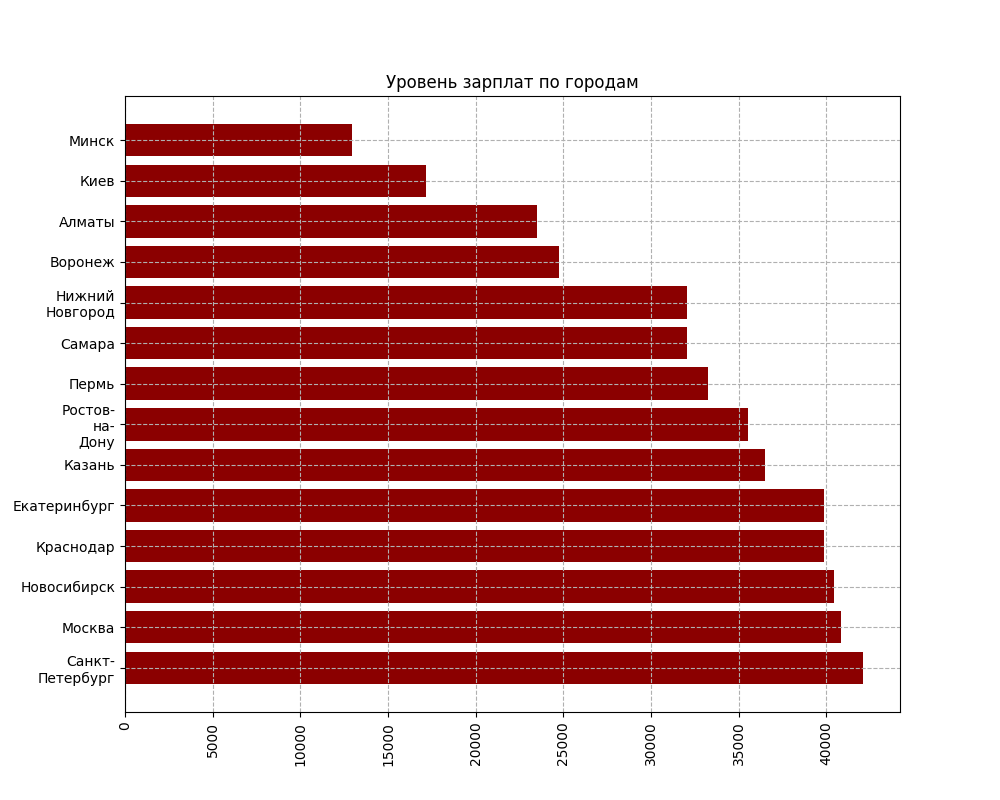
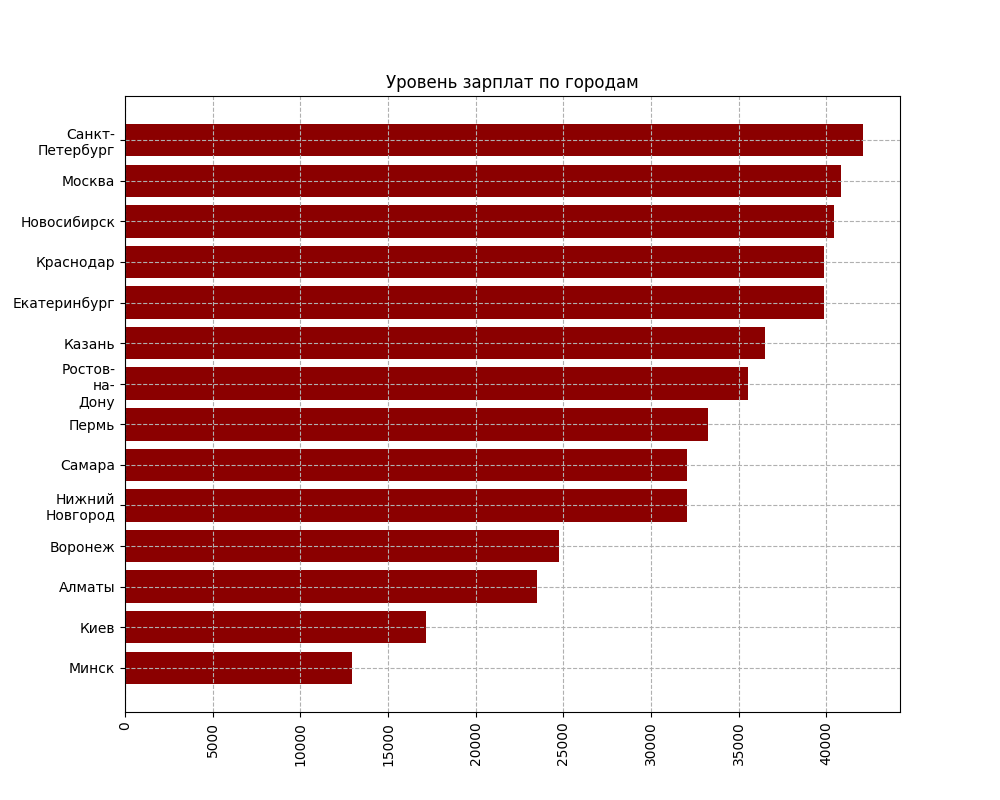
Выполнены все страницы с графиками и таблицами

diff --git a/djangoapp/main/templates/main/demand.html b/djangoapp/main/templates/main/demand.html
@@ -2,4 +2,13 @@
 {% block title %} Востребованность {% endblock %}
 {% load static %}
 {% block content %}
+<section class="flex-statistics">
+    <img class="graph-image" src="{% static 'graphics_and_tables/salary_by_years_graph_prof.png' %}" alt="График динамики уровня зарплат по годам для выбранной профессии">
+    <img class="table-image" src="{% static 'graphics_and_tables/salary_by_years_table_prof.png' %}" alt="Таблица динамики уровня зарплат по годам для выбранной профессии">
+</section>
+
+<section class="flex-statistics">
+    <img class="graph-image" src="{% static 'graphics_and_tables/count_by_years_graph_prof.png' %}" alt="График динамики количества вакансий по годам для выбранной профессии">
+    <img class="table-image" src="{% static 'graphics_and_tables/count_by_years_table_prof.png' %}" alt="Таблица динамики количества вакансий по годам для выбранной профессии">
+</section>
 {% endblock %}

diff --git a/djangoapp/main/templates/main/geography.html b/djangoapp/main/templates/main/geography.html
@@ -2,4 +2,13 @@
 {% block title %} География {% endblock %}
 {% load static %}
 {% block content %}
+<section class="flex-statistics">
+    <img class="graph-image" src="{% static 'graphics_and_tables/salary_by_cities_graph_prof.png' %}" alt="График уровня зарплат по городам для выбранной профессии">
+    <img class="table-image" src="{% static 'graphics_and_tables/salary_by_cities_table_prof.png' %}" alt="Таблица уровня зарплат по городам для выбранной профессии">
+</section>
+
+<section class="flex-statistics">
+    <img class="graph-image" src="{% static 'graphics_and_tables/share_by_cities_graph_prof.png' %}" alt="График долей вакансий по городам для выбранной профессии">
+    <img class="table-image" src="{% static 'graphics_and_tables/share_by_cities_table_prof.png' %}" alt="Таблица долей вакансий по городам для выбранной профессии">
+</section>
 {% endblock %}

diff --git a/djangoapp/main/templates/main/skills.html b/djangoapp/main/templates/main/skills.html
@@ -2,4 +2,8 @@
 {% block title %} Навыки {% endblock %}
 {% load static %}
 {% block content %}
+<section class="flex-statistics">
+    <img class="graph-image" src="{% static 'graphics_and_tables/top_skills_graph_prof.png' %}" alt="График ТОП-20 навыков по годам для выбранной профессии">
+    <img class="table-image" src="{% static 'graphics_and_tables/top_skills_table_prof.png' %}" alt="Таблица ТОП-20 навыков по годам для выбранной профессии">
+</section>
 {% endblock %}

diff --git a/djangoapp/main/management/commands/get_graphics.py b/djangoapp/main/management/commands/get_graphics.py
@@ -1,9 +1,9 @@
-import numpy as np
-from django.core.management.base import BaseCommand
-import pandas as pd
-from main.models import Vacancy
-from matplotlib import pyplot as plt
 from collections import Counter
+import matplotlib.pyplot as plt
+import numpy as np
+import pandas as pd
+from django.core.management.base import BaseCommand
+from main.models import Vacancy
 
 
 class Command(BaseCommand):
@@ -55,23 +55,17 @@ class Command(BaseCommand):
                 all_skills = [skill for skills in skills_lists for skill in skills]
                 if all_skills:
                     skills_count = Counter(all_skills)
-                    most_common_skill = skills_count.most_common(2)
+                    most_common_skills = skills_count.most_common(2)
+                    skills_text = '\n'.join([skill[0] for skill in most_common_skills])
+                    skills_count_text = [skill[1] for skill in most_common_skills]
                     most_popular_skills[year] = {
-                        'skill': [most_common_skill[i][0] for i in range(2)],
-                        'count': [most_common_skill[i][1] for i in range(2)]
+                        'skill': skills_text,
+                        'count': skills_count_text
                     }
             return most_popular_skills
 
-        synonyms = [
-            'system admin', 'сисадмин',
-            'сис админ', 'системный админ',
-            'cистемный админ', 'администратор систем',
-            'системний адміністратор'
-        ]
-
-        def find_vacancies_by_synonyms(vacancies, tags):
-            mask = vacancies['name']
-
+        def find_vacancies_by_synonyms(vacancies, synonyms):
+            return vacancies[vacancies['name'].str.lower().str.contains('|'.join(synonyms), na=False)]
 
         def get_vacancies(param=None):
             vacancies = pd.DataFrame.from_records(Vacancy.objects.values().all())
@@ -115,6 +109,7 @@ class Command(BaseCommand):
         def get_barh_and_table(x, y, y_table, title, histogram_color, table_color, histogram_name, table_name, x_name,
                                     y_name):
             plt.figure(figsize=(10, 8))
+            plt.gca().invert_yaxis()
             plt.barh(y, x, color=histogram_color)
             plt.xticks(np.arange(0.0, max(x) + 1, 5000.0))
             plt.tick_params(axis='x', rotation=90)
@@ -155,7 +150,7 @@ class Command(BaseCommand):
                              loc='center',
                              cellLoc='center')
             table.auto_set_font_size(False)
-            table.set_fontsize(8)
+            table.set_fontsize(6)
 
             for k, cell in table.get_celld().items():
                 if k[0] == 0:
@@ -224,7 +219,6 @@ class Command(BaseCommand):
         )
 
         # Пятый график
-
         skills_by_years = get_top_skills(all_vacancies)
         years = list(skills_by_years.keys())
         counts = []
@@ -241,10 +235,94 @@ class Command(BaseCommand):
             'Год', 'Навыки'
         )
 
+
+        synonyms = [
+            'system admin', 'сисадмин',
+            'сис админ', 'системный админ',
+            'cистемный админ', 'администратор систем',
+            'системний адміністратор'
+        ]
+
+        vacancies = find_vacancies_by_synonyms(all_vacancies, synonyms)
+        vacancies_for_salary = find_vacancies_by_synonyms(salary_vacancies, synonyms)
+
         ### Востребованность ###
+
+        # Первый график
+        salary_by_years_prof = get_statistics_by_years(vacancies_for_salary, 'salary')
+        salary_years_prof = list(salary_by_years_prof.keys())
+        salaries_by_year_prof = list(salary_by_years_prof.values())
+        get_graph_and_table(
+            salary_years_prof, salaries_by_year_prof,
+            'Динамика уровня зарплат по годам для профессии "Системный аналитик"',
+            'gold', '#FFCF48',
+            'salary_by_years_graph_prof.png',
+            'salary_by_years_table_prof.png',
+            'Год', 'Средняя з/п',
+            5000.0
+        )
+
+        # Второй график
+        count_by_years_prof = get_statistics_by_years(vacancies, 'count')
+        count_years_prof = list(count_by_years_prof.keys())
+        counts_by_years_prof = list(count_by_years_prof.values())
+        get_graph_and_table(
+            count_years_prof, counts_by_years_prof,
+            'Динамика количества вакансий по годам для профессии "Системный аналитик"',
+            'blue', '#1240AB',
+            'count_by_years_graph_prof.png',
+            'count_by_years_table_prof.png',
+            'Год', 'Количество вакансий',
+            50000.0
+        )
 
         ### География ###
 
+        # Первый график
+        salary_by_cities_prof = get_statistics_by_cities(vacancies_for_salary, 'salary')
+        salary_cities_table_prof = list(salary_by_cities_prof.keys())
+        salary_cities_prof = [city.replace('-', '-\n') if '-' in city else city.replace(' ', '\n') for city in
+                         salary_by_cities_prof.keys()]
+        salaries_by_cities_prof = list(salary_by_cities_prof.values())
+        get_barh_and_table(
+            salaries_by_cities_prof, salary_cities_prof, salary_cities_table_prof,
+            'Уровень зарплат по городам для профессии "Системный аналитик"',
+            'darkred', '#5E2129',
+            'salary_by_cities_graph_prof.png',
+            'salary_by_cities_table_prof.png',
+            'Город', 'Средняя з/п'
+        )
+
+        # Второй график
+        share_by_cities_prof = get_statistics_by_cities(vacancies, 'count')
+        share_cities_prof = list(share_by_cities_prof.keys())
+        shares_by_cities_prof = list(share_by_cities_prof.values())
+        get_pie_and_table(
+            share_cities_prof, shares_by_cities_prof, shares_by_cities_prof,
+            'Доля вакансий по городам для профессии "Системный аналитик"', 'green',
+            'share_by_cities_graph_prof.png',
+            'share_by_cities_table_prof.png',
+            'Город', 'Доля вакансий'
+        )
+
         ### Навыки ###
+
+        # Первый график
+        skills_by_years_prof = get_top_skills(vacancies)
+        years_prof = list(skills_by_years.keys())
+        counts_prof = []
+        skills_prof = []
+        for year in years_prof:
+            counts_prof.append(sum(skills_by_years_prof[year]['count']))
+            skills_prof.append(skills_by_years_prof[year]['skill'])
+
+        get_pie_and_table(
+            years_prof, counts_prof, skills_prof,
+            'ТОП-20 навыков по годам для профессии "Системный аналитик"', 'purple',
+            'top_skills_graph_prof.png',
+            'top_skills_table_prof.png',
+            'Год', 'Навыки'
+        )
+
 
         self.stdout.write(self.style.SUCCESS('Графики созданы успешно!'))
